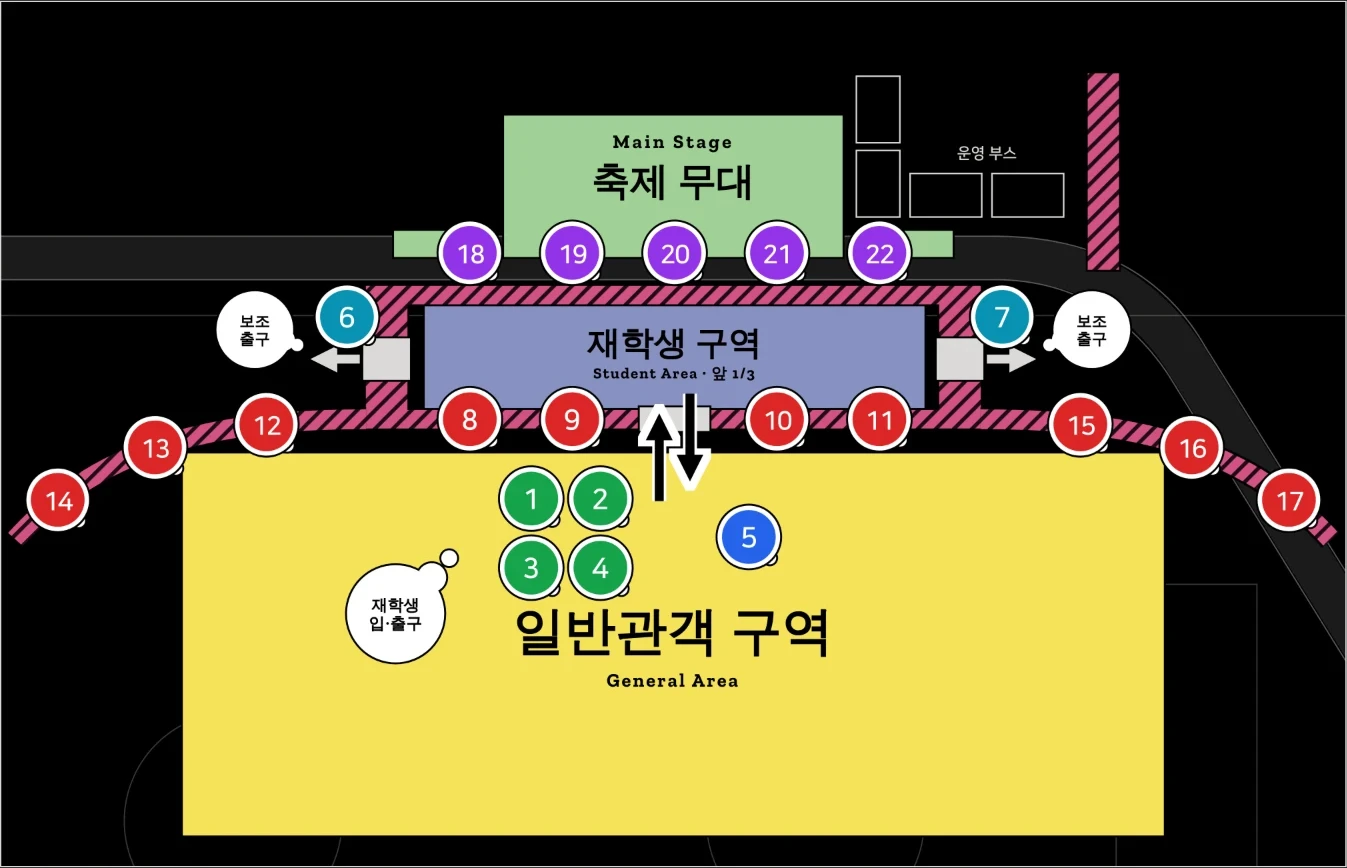
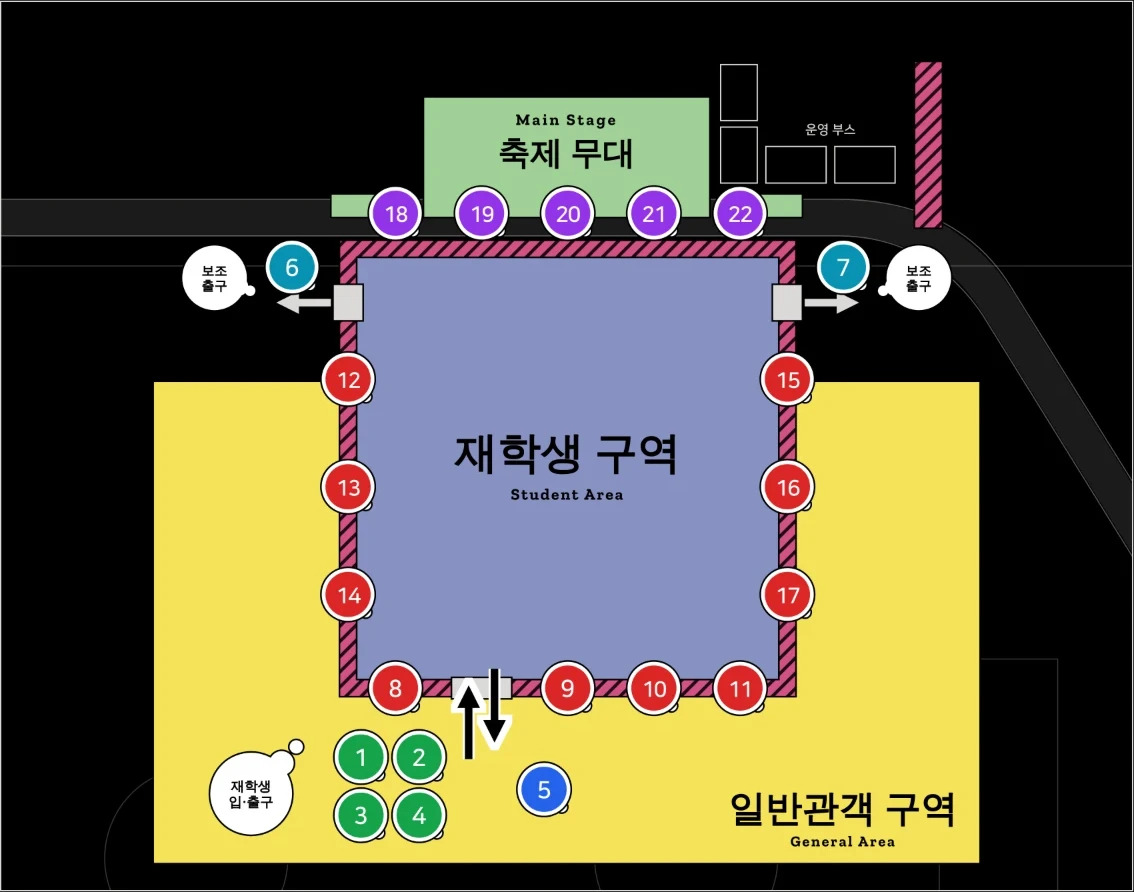
Replace placement map with new layout and update spot coordinates
Claude-Session: https://claude.ai/code/session_01VLAU878uW3johEJhrDqsdQ

diff --git a/manual/index.html b/manual/index.html
@@ -61,7 +61,7 @@
   .pos b.num{display:inline-flex;align-items:center;justify-content:center;min-width:32px;height:32px;border-radius:50%;font-size:15px;font-weight:800;color:#fff;}
   .map{position:relative;border-radius:12px;overflow:hidden;background:#000;line-height:0;}
   .map img{width:100%;height:auto;display:block;}
-  .mk{position:absolute;width:7.4%;aspect-ratio:1;border-radius:50%;transform:translate(-50%,-50%);border:3px solid #fff;
+  .mk{position:absolute;width:6.9%;aspect-ratio:1;border-radius:50%;transform:translate(-50%,-50%);border:3px solid #fff;
     box-shadow:0 0 0 3px #ff2d55,0 0 0 9999px rgba(0,0,0,.5);animation:pulse 1.4s ease-in-out infinite;pointer-events:none;}
   .map.multi .mk{box-shadow:0 0 0 3px #ff2d55;}
   .mk-tag{position:absolute;transform:translate(-50%,-100%);background:#fff;color:#191f28;font-size:12px;font-weight:800;line-height:1.2;
@@ -135,9 +135,9 @@
 
   // 관객석 인력 배치도 위의 1~21번 위치 (지도 이미지 기준 %)
   // 관객석 인력 배치도(22명) 위의 1~22번 위치 (지도 이미지 기준 %)
-  const SPOTS = {1:[39.42,57.49],2:[44.54,57.49],3:[39.42,65.32],4:[44.54,65.32],5:[55.61,61.87],6:[25.76,36.52],7:[74.31,36.52],
-    8:[34.82,48.39],9:[42.46,48.39],10:[57.76,48.39],11:[65.33,48.39],12:[19.75,48.96],13:[11.51,51.61],14:[4.31,57.6],
-    15:[80.25,48.96],16:[88.49,51.61],17:[95.69,57.6],18:[34.89,29.26],19:[42.54,29.26],20:[50.11,29.26],21:[57.68,29.26],22:[65.26,29.26]};
+  const SPOTS = {1:[31.83,84.87],2:[36.95,84.87],3:[31.83,91.37],4:[36.95,91.37],5:[47.97,88.45],6:[25.75,29.93],7:[74.34,29.93],
+    8:[34.83,77.13],9:[50.0,77.13],10:[57.67,77.13],11:[65.26,77.13],12:[30.78,42.49],13:[30.78,54.6],14:[30.78,66.7],
+    15:[69.49,42.49],16:[69.49,54.6],17:[69.49,66.7],18:[34.92,23.99],19:[42.5,23.99],20:[50.09,23.99],21:[57.67,23.99],22:[65.26,23.99]};
   const spotRole = n => n<=4 ? ['입구','#1f9d55'] : n===5 ? ['출구','#2563eb'] : n<=7 ? ['보조출구','#0e8fa8'] : n<=17 ? ['통제선 관리','#e02424'] : ['무대 앞','#8b2be2'];
   const posOf = (e, name) => { const n = parseInt((e.positions||{})[name], 10); return SPOTS[n] ? n : null; };
 
